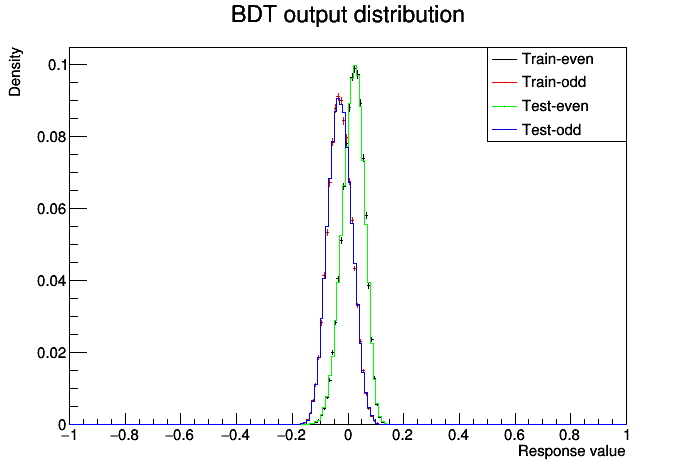
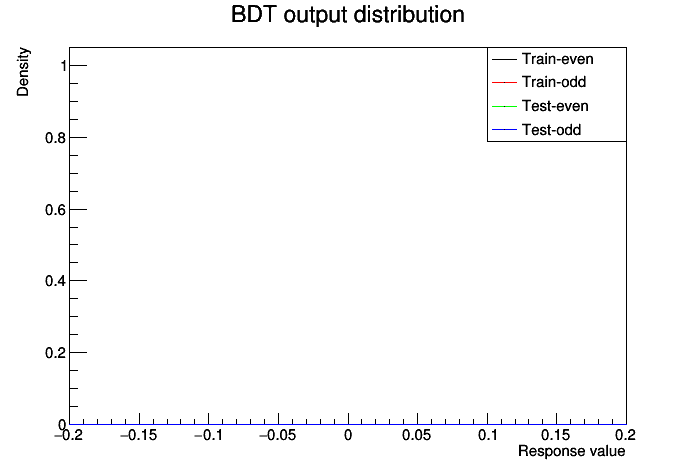
ozgur

diff --git a/hist_com_plot.c b/hist_com_plot.c
@@ -8,6 +8,11 @@ void hist_com_plot(){
 	TH1F* test_S=(TH1F*) file1->Get("SignalValuesTest");
 	TH1F* test_B=(TH1F*) file1->Get("BackgroundValuesTest");
 	TH1F* powheg=(TH1F*)file2->Get("MVA_BDT_powheg");	
+	train_S->SetBins(50,-0.2,0.2);
+	train_B->SetBins(50,-0.2,0.2);
+	test_S->SetBins(50,-0.2,0.2);
+	test_B->SetBins(50,-0.2,0.2);
+
 	train_S->SetLineColor(1);
 	train_B->SetLineColor(2);
 	test_S->SetLineColor(3);
@@ -18,10 +23,10 @@ void hist_com_plot(){
 	
 	TCanvas* c= new TCanvas();
 	train_S->SetTitle("BDT output distribution;Response value;Density");
-	train_S->DrawNormalized();
-	train_B->DrawNormalized("same");
-	test_S->DrawNormalized("sameHist");
-	test_B->DrawNormalized("sameHist");
+	train_S->Draw();
+	train_B->Draw("same");
+	test_S->Draw("sameHist");
+	test_B->Draw("sameHist");
 	//powheg->DrawNormalized("same");
 
 	TLegend leg(.7,.7,.9,.9);
